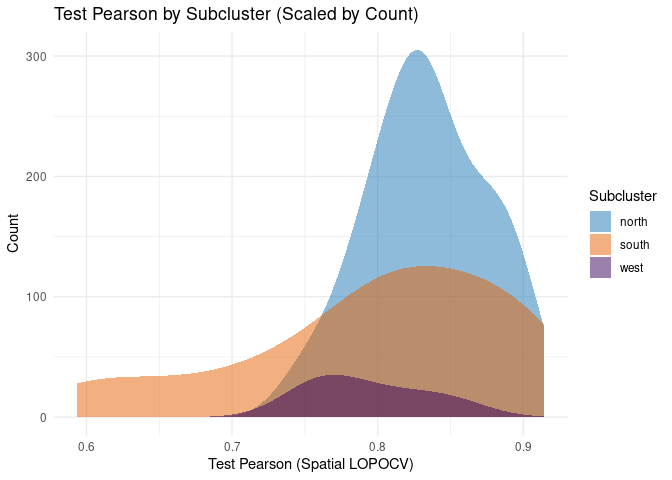
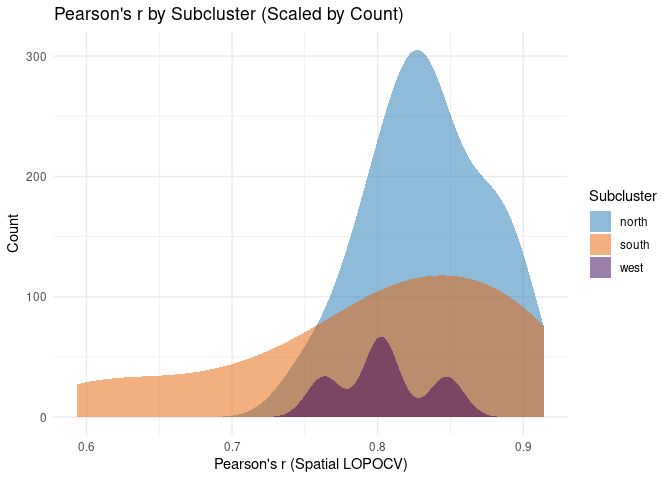
8

diff --git a/scripts_knitted_md/08_LOPOCV_wSpatial_CSE.md b/scripts_knitted_md/08_LOPOCV_wSpatial_CSE.md
@@ -1,7 +1,7 @@
 LOPOCV: Random Forest (Internal) and Spatial Cross-Validation
 ================
 Norah Saarman
-2026-04-14
+2026-04-17
 
 - [Setup](#setup)
   - [Overview of script](#overview-of-script)
@@ -603,7 +603,7 @@ ggplot() +
     values = c("north" = "#1f78b4", "south" = "#e66101", "west" = "#39005A")
   ) +
   scale_size_continuous(
-  name = "LOPOCV Test\nSpearman",
+  name = "LOPOCV \nSpearman's r",
   limits = c(0.4, 1.0),
   breaks = c(0.4, 0.7, 1.0),
   range = c(2,7)
@@ -611,7 +611,7 @@ ggplot() +
   coord_sf(xlim = xlim, ylim = ylim, expand = FALSE) +
   theme_minimal() +
   theme(panel.grid = element_blank()) +
-  labs(title = "LOPOCV Test Spearman by Sampling Site", x = "Longitude", y = "Latitude")
+  labs(title = "LOPOCV Spearman's r by Sampling Site", x = "Longitude", y = "Latitude")
 ```
 
 ![](../figures/knitted_mds/5-viz-spearman-1.png)<!-- -->
@@ -622,8 +622,8 @@ ggplot(site_metadata, aes(x = Spearman, fill = Subcluster)) +
   scale_fill_manual(values = c("north" = "#1f78b4", "south" = "#e66101", "west" = "#39005A")) +
   theme_minimal() +
   labs(
-    title = "Distribution of Test Spearman by Subcluster",
-    x = "Test Spearman (LOPOCV)",
+    title = "Distribution of Spearman's r by Subcluster",
+    x = "Spearman's r (LOPOCV)",
     y = "Density"
   )
 ```
@@ -636,8 +636,8 @@ ggplot(site_metadata, aes(x = Spearman, fill = Subcluster)) +
   scale_fill_manual(values = c("north" = "#1f78b4", "south" = "#e66101", "west" = "#39005A")) +
   theme_minimal() +
   labs(
-    title = "Test Spearman by Subcluster (Scaled by Count)",
-    x = "Test Spearman (LOPOCV)",
+    title = "Spearman's r by Subcluster (Scaled by Count)",
+    x = "Spearman's r (LOPOCV)",
     y = "Count"
   )
 ```
@@ -662,11 +662,11 @@ ggplot() +
     shape = 21, color = "black", size = 1, stroke = 0.3
   ) +
   scale_fill_manual(
-    name = "Cluster",
+    name = "Group",
     values = c("north" = "#1f78b4", "south" = "#e66101")
   ) +
   scale_size_continuous(
-  name = "LOPOCV Test\nSpearman",
+  name = "LOPOCV \nSpearman's r",
   limits = c(0.4, 1.0),
   breaks = c(0.4, 0.7, 1.0),
   range = c(2,7)
@@ -674,7 +674,7 @@ ggplot() +
   coord_sf(xlim = xlim, ylim = ylim, expand = FALSE) +
   theme_minimal() +
   theme(panel.grid = element_blank()) +
-  labs(title = "LOPOCV Test Spearman by Site", x = "Longitude", y = "Latitude")
+  labs(title = "LOPOCV Spearman's r by Site", x = "Longitude", y = "Latitude")
 ```
 
 ![](../figures/knitted_mds/5-viz-spearman-4.png)<!-- -->
@@ -685,8 +685,8 @@ ggplot(site_metadata, aes(x = Spearman, fill = Cluster)) +
   scale_fill_manual(values = c("north" = "#1f78b4", "south" = "#e66101")) +
   theme_minimal() +
   labs(
-    title = "Distribution of Test Spearman by Cluster",
-    x = "Test Spearman (LOPOCV)",
+    title = "Distribution of Spearman's r by Cluster",
+    x = "Spearman's r (LOPOCV)",
     y = "Density"
   )
 ```
@@ -699,8 +699,8 @@ ggplot(site_metadata, aes(x = Spearman, fill = Cluster)) +
   scale_fill_manual(values = c("north" = "#1f78b4", "south" = "#e66101")) +
   theme_minimal() +
   labs(
-    title = "Test Spearman by Cluster (Scaled by Count)",
-    x = "Test Spearman (LOPOCV)",
+    title = "Spearman's r by Cluster (Scaled by Count)",
+    x = "Spearman's r (LOPOCV)",
     y = "Count"
   )
 ```
@@ -1248,6 +1248,7 @@ distance models, where relative ordering of pairwise connectivity is
 often more important than absolute prediction accuracy.
 
 ``` r
+kdist = 1
 for (fold_idx in seq_along(sites)) {
 
   site <- sites[fold_idx]
@@ -1341,23 +1342,145 @@ print(pooled_summary_spatial)
 ``` r
 # Load Spatial LOPOCV summary
 metrics_all <- read.csv(file.path(results_dir, "spatial_LOPOCV_LCPsum_k1_summary.csv"))
-head(metrics_all)
+print(metrics_all)
 ```
 
-    ##     site projection_km  method  n         MSE       RMSE        MAE   Pearson
-    ## 1 01-AIN             1 LCP_sum 34 0.003843591 0.06199670 0.05239148 0.8617210
-    ## 2 02-GAN             1 LCP_sum 34 0.003132155 0.05596566 0.04422107 0.8667188
-    ## 3 03-DUK             1 LCP_sum 34 0.002709665 0.05205445 0.04412794 0.8243442
-    ## 4 07-OSG             1 LCP_sum 34 0.001924589 0.04387014 0.03421054 0.7977330
-    ## 5  08-MY             1 LCP_sum 34 0.003063888 0.05535240 0.04558687 0.7798523
-    ## 6 09-ORB             1 LCP_sum 34 0.001751627 0.04185244 0.03327633 0.8395910
-    ##    Spearman
-    ## 1 0.8252101
-    ## 2 0.8212376
-    ## 3 0.7103132
-    ## 4 0.7087853
-    ## 5 0.6855615
-    ## 6 0.8071811
+    ##      site projection_km  method  n         MSE       RMSE        MAE   Pearson
+    ## 1  01-AIN             1 LCP_sum 34 0.003843591 0.06199670 0.05239148 0.8617210
+    ## 2  02-GAN             1 LCP_sum 34 0.003132155 0.05596566 0.04422107 0.8667188
+    ## 3  03-DUK             1 LCP_sum 34 0.002709665 0.05205445 0.04412794 0.8243442
+    ## 4  07-OSG             1 LCP_sum 34 0.001924589 0.04387014 0.03421054 0.7977330
+    ## 5   08-MY             1 LCP_sum 34 0.003063888 0.05535240 0.04558687 0.7798523
+    ## 6  09-ORB             1 LCP_sum 34 0.001751627 0.04185244 0.03327633 0.8395910
+    ## 7  10-PAG             1 LCP_sum 34 0.001241094 0.03522916 0.02785642 0.8933229
+    ## 8  12-OLO             1 LCP_sum 34 0.001140869 0.03377675 0.02682173 0.8722050
+    ## 9  14-OKS             1 LCP_sum 34 0.002045662 0.04522900 0.03893983 0.9027847
+    ## 10 15-NGO             1 LCP_sum 34 0.001550066 0.03937088 0.02744220 0.7764778
+    ## 11 17-LAG             1 LCP_sum 34 0.001650230 0.04062303 0.03428387 0.8907716
+    ## 12 18-BOL             1 LCP_sum 34 0.002470688 0.04970601 0.04144486 0.8286751
+    ## 13 19-KTC             1 LCP_sum 34 0.001240438 0.03521985 0.02843296 0.8886503
+    ## 14 20-TUM             1 LCP_sum 34 0.002080619 0.04561380 0.03787773 0.8328793
+    ## 15  21-KT             1 LCP_sum 34 0.003069589 0.05540388 0.04918261 0.8093904
+    ## 16 22-OMI             1 LCP_sum 34 0.001383317 0.03719297 0.03202972 0.8749602
+    ## 17 24-KIL             1 LCP_sum 34 0.002406838 0.04905954 0.04357598 0.8157516
+    ## 18 25-CHU             1 LCP_sum 34 0.003442569 0.05867341 0.05037092 0.8130497
+    ## 19  26-OG             1 LCP_sum 34 0.004029817 0.06348084 0.05528035 0.7863525
+    ## 20 27-OCA             1 LCP_sum 34 0.002326296 0.04823169 0.04100922 0.8068565
+    ## 21 28-AKA             1 LCP_sum 34 0.002459216 0.04959048 0.04295016 0.8521116
+    ## 22 30-OLE             1 LCP_sum 34 0.002616217 0.05114896 0.04583953 0.8344487
+    ## 23 31-ACA             1 LCP_sum 34 0.001857831 0.04310256 0.03337214 0.7446083
+    ## 24 32-APU             1 LCP_sum 34 0.003394618 0.05826335 0.04978838 0.8243721
+    ## 25  33-AP             1 LCP_sum 34 0.001388579 0.03726364 0.02900522 0.8223463
+    ## 26 36-UGT             1 LCP_sum 34 0.002402521 0.04901552 0.03881062 0.8388714
+    ## 27  37-OT             1 LCP_sum 34 0.001445999 0.03802629 0.03130043 0.8322606
+    ## 28 38-OCU             1 LCP_sum 34 0.002567059 0.05066615 0.04306817 0.7589280
+    ## 29 40-KAG             1 LCP_sum 34 0.002327657 0.04824580 0.04182709 0.7995743
+    ## 30  43-OS             1 LCP_sum 34 0.001836375 0.04285295 0.03510637 0.7976722
+    ## 31  44-MK             1 LCP_sum 34 0.003334831 0.05774799 0.05148174 0.8796988
+    ## 32 45-BKD             1 LCP_sum 34 0.001100764 0.03317776 0.02752184 0.9053937
+    ## 33  46-PT             1 LCP_sum 34 0.002212532 0.04703756 0.03669759 0.8428693
+    ## 34  47-BK             1 LCP_sum 34 0.003161987 0.05623155 0.04258631 0.8515937
+    ## 35  48-BN             1 LCP_sum 34 0.008893827 0.09430709 0.08098099 0.7597233
+    ## 36  51-MF             1 LCP_sum 31 0.004081878 0.06388958 0.05487373 0.7631684
+    ## 37  52-KR             1 LCP_sum 31 0.002388137 0.04886857 0.04066011 0.8039985
+    ## 38  54-MS             1 LCP_sum 31 0.008389312 0.09159319 0.08318529 0.8473597
+    ## 39 55-KAF             1 LCP_sum 31 0.005857431 0.07653386 0.06520697 0.8010143
+    ## 40  56-MA             1 LCP_sum 31 0.005194584 0.07207346 0.05516732 0.7982472
+    ## 41  57-KG             1 LCP_sum 31 0.005873403 0.07663813 0.06085051 0.8173543
+    ## 42  58-SS             1 LCP_sum 31 0.004870259 0.06978724 0.05332003 0.7585191
+    ## 43  59-EB             1 LCP_sum 31 0.001678769 0.04097278 0.03351986 0.9077015
+    ## 44  60-NA             1 LCP_sum 31 0.003379256 0.05813137 0.04553291 0.8826762
+    ## 45  61-KO             1 LCP_sum 31 0.004138632 0.06433220 0.04954832 0.9020261
+    ## 46  62-NS             1 LCP_sum 31 0.003623972 0.06019943 0.04836145 0.8994828
+    ## 47  63-DB             1 LCP_sum 31 0.003692895 0.06076919 0.04737781 0.9018345
+    ## 48  64-KL             1 LCP_sum 31 0.002569070 0.05068600 0.04090446 0.9143163
+    ## 49  65-BZ             1 LCP_sum 31 0.003764721 0.06135732 0.05527847 0.7442803
+    ## 50  66-BY             1 LCP_sum 31 0.004914680 0.07010478 0.06109800 0.7096671
+    ## 51  68-LI             1 LCP_sum 31 0.004454891 0.06674497 0.05505736 0.7804667
+    ## 52  69-BV             1 LCP_sum 31 0.002820504 0.05310842 0.04612787 0.8447135
+    ## 53 70-MGG             1 LCP_sum 31 0.004257916 0.06525271 0.05443401 0.8042054
+    ## 54  71-BD             1 LCP_sum 31 0.002641179 0.05139241 0.04497501 0.8479577
+    ## 55  72-JN             1 LCP_sum 31 0.002030184 0.04505757 0.03473423 0.6405413
+    ## 56 73-IGG             1 LCP_sum 31 0.003710537 0.06091418 0.05151280 0.7950704
+    ## 57 74-NAM             1 LCP_sum 31 0.002665907 0.05163242 0.04379976 0.7689024
+    ## 58  76-TB             1 LCP_sum 31 0.005013931 0.07080912 0.05989106 0.5934319
+    ## 59  78-OK             1 LCP_sum 31 0.004079953 0.06387451 0.05272814 0.6640783
+    ## 60  79-BU             1 LCP_sum 31 0.004797222 0.06926198 0.05924316 0.5977669
+    ## 61 81-BUD             1 LCP_sum 31 0.005001718 0.07072282 0.06255776 0.8617711
+    ## 62 82-BON             1 LCP_sum 31 0.007579524 0.08706046 0.07945100 0.8427461
+    ## 63  83-ND             1 LCP_sum 31 0.004141087 0.06435128 0.04320117 0.7110836
+    ## 64 84-MAN             1 LCP_sum 31 0.005495843 0.07413395 0.06779857 0.8717776
+    ## 65 85-KSS             1 LCP_sum 31 0.006579793 0.08111592 0.07546441 0.8362678
+    ## 66 86-SUB             1 LCP_sum 31 0.010216663 0.10107751 0.09248045 0.8283309
+    ## 67 87-KAR             1 LCP_sum 31 0.004877399 0.06983838 0.06228944 0.8654663
+    ##     Spearman
+    ## 1  0.8252101
+    ## 2  0.8212376
+    ## 3  0.7103132
+    ## 4  0.7087853
+    ## 5  0.6855615
+    ## 6  0.8071811
+    ## 7  0.8600458
+    ## 8  0.7347594
+    ## 9  0.8157372
+    ## 10 0.7805959
+    ## 11 0.8728801
+    ## 12 0.7662338
+    ## 13 0.8814362
+    ## 14 0.7842628
+    ## 15 0.8108480
+    ## 16 0.8634072
+    ## 17 0.8203209
+    ## 18 0.7937357
+    ## 19 0.7818182
+    ## 20 0.8041253
+    ## 21 0.8355997
+    ## 22 0.8194041
+    ## 23 0.7423988
+    ## 24 0.8108480
+    ## 25 0.8242934
+    ## 26 0.8469060
+    ## 27 0.8487395
+    ## 28 0.7790680
+    ## 29 0.8181818
+    ## 30 0.8774637
+    ## 31 0.8979374
+    ## 32 0.8982429
+    ## 33 0.8707410
+    ## 34 0.8539343
+    ## 35 0.7961803
+    ## 36 0.5512097
+    ## 37 0.6318548
+    ## 38 0.5979839
+    ## 39 0.6241935
+    ## 40 0.6947581
+    ## 41 0.7733871
+    ## 42 0.6572581
+    ## 43 0.8584677
+    ## 44 0.8758065
+    ## 45 0.9044355
+    ## 46 0.9064516
+    ## 47 0.9072581
+    ## 48 0.9149194
+    ## 49 0.8169355
+    ## 50 0.7608871
+    ## 51 0.8754032
+    ## 52 0.8774194
+    ## 53 0.8810484
+    ## 54 0.8846774
+    ## 55 0.5794355
+    ## 56 0.8169355
+    ## 57 0.7983871
+    ## 58 0.6237903
+    ## 59 0.6943548
+    ## 60 0.5798387
+    ## 61 0.7729839
+    ## 62 0.8068548
+    ## 63 0.6572581
+    ## 64 0.9008065
+    ## 65 0.8504032
+    ## 66 0.8072581
+    ## 67 0.7903226
 
 ``` r
 summary(metrics_all$Pearson)
@@ -1365,6 +1488,15 @@ summary(metrics_all$Pearson)
 
     ##    Min. 1st Qu.  Median    Mean 3rd Qu.    Max. 
     ##  0.5934  0.7907  0.8283  0.8166  0.8636  0.9143
+
+``` r
+# Load Spatial Poooled Stats
+pooled_summary_spatial <- read.csv(file.path(results_dir, "spatial_LOPOCV_LCPsum_k1_pooled_summary.csv"))
+print(pooled_summary_spatial)
+```
+
+    ##      n pooled_R2 pooled_Pearson pooled_Spearman pooled_RMSE pooled_MAE
+    ## 1 2182 0.5782235      0.7605472       0.7850421   0.0584843 0.04740392
 
 ``` r
 # Load raster for extent
@@ -1421,7 +1553,7 @@ ggplot() +
     values = c("north" = "#1f78b4", "south" = "#e66101", "west" = "#39005A")
   ) +
   scale_size_continuous(
-  name = "LOPOCV Test\nSpearman",
+  name = "LOPOCV \nSpearman's r",
   limits = c(0.4, 1.0),
   breaks = c(0.4, 0.7, 1.0),
   range = c(2,7)
@@ -1429,7 +1561,7 @@ ggplot() +
   coord_sf(xlim = xlim, ylim = ylim, expand = FALSE) +
   theme_minimal() +
   theme(panel.grid = element_blank()) +
-  labs(title = "Spatial LOPOCV Test Pearson by Site", x = "Longitude", y = "Latitude")
+  labs(title = "Spatial LOPOCV Pearson's r by Site", x = "Longitude", y = "Latitude")
 ```
 
 ![](../figures/knitted_mds/10-visualize-spatial-LCPsum-1.png)<!-- -->
@@ -1456,8 +1588,8 @@ ggplot(site_metadata, aes(x = Pearson, fill = Subcluster)) +
   scale_fill_manual(values = c("north" = "#1f78b4", "south" = "#e66101", "west" = "#39005A")) +
   theme_minimal() +
   labs(
-    title = "Test Pearson by Subcluster (Scaled by Count)",
-    x = "Test Pearson (Spatial LOPOCV)",
+    title = "Pearson's r by Subcluster (Scaled by Count)",
+    x = "Pearson's r (Spatial LOPOCV)",
     y = "Count"
   )
 ```
@@ -1484,11 +1616,11 @@ ggplot() +
     shape = 21, color = "black", size = 1, stroke = 0.3
   ) +
   scale_fill_manual(
-    name = "Cluster",
+    name = "Group",
     values = c("north" = "#1f78b4", "south" = "#e66101")
   ) +
   scale_size_continuous(
-  name = "LOPOCV Test\nSpearman",
+  name = "LOPOCV \nSpearman's r",
   limits = c(0.4, 1.0),
   breaks = c(0.4, 0.7, 1.0),
   range = c(2,7)
@@ -1509,7 +1641,7 @@ ggplot(site_metadata, aes(x = Pearson, fill = Cluster)) +
   theme_minimal() +
   labs(
     title = "Distribution of Test Pearson by Cluster",
-    x = "Test Pearson (Spatial LOPOCV)",
+    x = "Pearson's r (Spatial LOPOCV)",
     y = "Density"
   )
 ```
@@ -1523,8 +1655,8 @@ ggplot(site_metadata, aes(x = Pearson, fill = Cluster)) +
   scale_fill_manual(values = c("north" = "#1f78b4", "south" = "#e66101")) +
   theme_minimal() +
   labs(
-    title = "Test Pearson by Cluster (Scaled by Count)",
-    x = "Test Pearson (Spatial LOPOCV)",
+    title = "Pearson's r by Cluster (Scaled by Count)",
+    x = "Pearson's r (Spatial LOPOCV)",
     y = "Count"
   )
 ```
